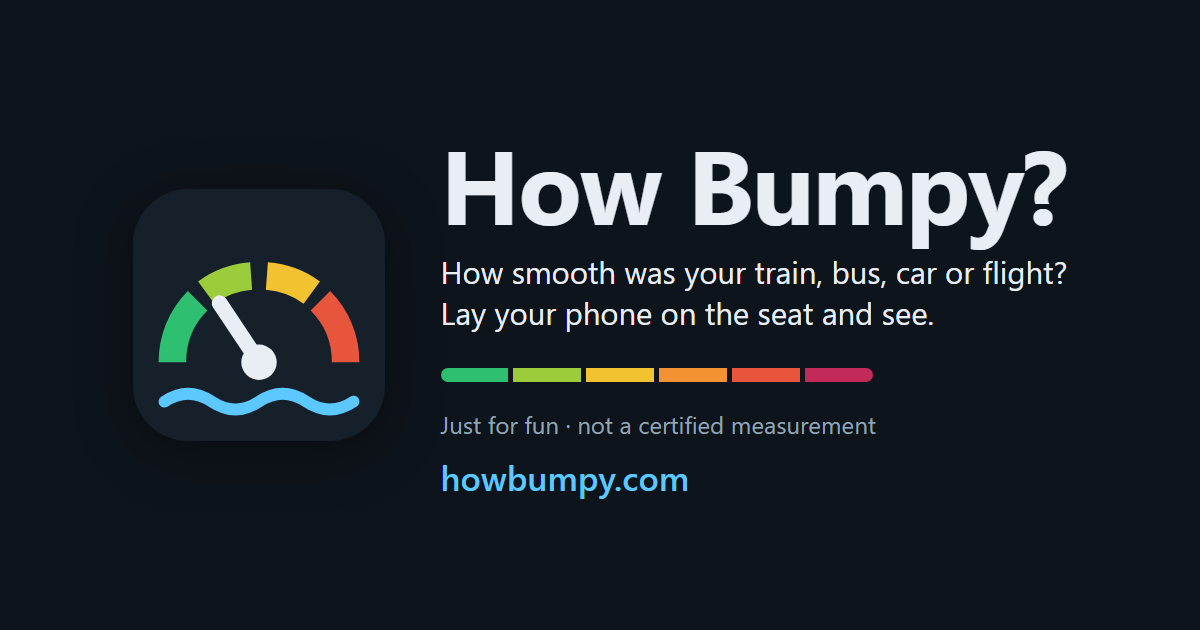
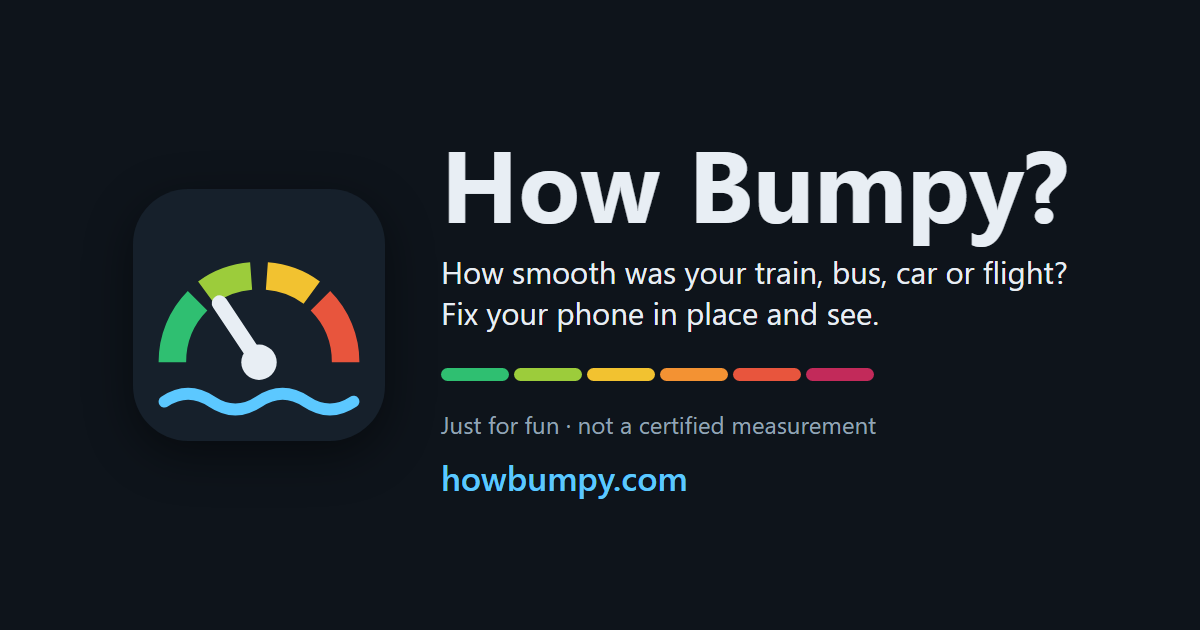
Say "fix your phone in place", never "lay it on the seat"
A phone left loose on a seat is a safety and theft risk, and it can
slide off and break. Every mention now says to fix the phone in place,
with examples: a phone holder or mount (dashboard, air vent, armrest,
tray table) or a seat-back pocket.

- Setup steps, countdown, moving-phone status and error text
- Where to put the phone: the phone feels what it's fixed to, so compare
  rides in the same holder or spot; drivers start it before setting off
- Plane FAQ: crew instructions for take-off and landing (JSON-LD to match)
- Meta, OG, Twitter and WebApplication descriptions, tagline, manifest,
  llms.txt, README
- og-image.png re-rendered: "Fix your phone in place and see."
- sw.js -> hb-v3; sitemap lastmod 2026-10-27

diff --git a/index.html b/index.html
@@ -4,13 +4,13 @@
 <meta charset="utf-8">
 <meta name="viewport" content="width=device-width, initial-scale=1, viewport-fit=cover">
 <title>How Bumpy? Ride comfort meter for trains, buses, cars and flights</title>
-<meta name="description" content="How bumpy was your train, bus, car or flight? Lay your phone on the seat for a live comfort gauge, the biggest jolts and a seasickness dose. Free and just for fun.">
+<meta name="description" content="How bumpy was your train, bus, car or flight? Fix your phone in a holder for a live comfort gauge, the biggest jolts and a seasickness dose. Free and just for fun.">
 <link rel="canonical" href="https://howbumpy.com/">
 <meta property="og:type" content="website">
 <meta property="og:url" content="https://howbumpy.com/">
 <meta property="og:site_name" content="How Bumpy?">
 <meta property="og:title" content="How Bumpy? How smooth was your ride?">
-<meta property="og:description" content="Lay your phone on the seat of a train, bus, car or plane and find out how bumpy the ride was. Free, just for fun, and it works offline.">
+<meta property="og:description" content="Fix your phone in a holder on a train, bus, car or plane and find out how bumpy the ride was. Free, just for fun, and it works offline.">
 <meta property="og:image" content="https://howbumpy.com/og-image.png">
 <meta property="og:image:width" content="1200">
 <meta property="og:image:height" content="630">
@@ -18,7 +18,7 @@
 <meta property="og:locale" content="en_GB">
 <meta name="twitter:card" content="summary_large_image">
 <meta name="twitter:title" content="How Bumpy? How smooth was your ride?">
-<meta name="twitter:description" content="Lay your phone on the seat of a train, bus, car or plane and find out how bumpy the ride was. Free, just for fun, and it works offline.">
+<meta name="twitter:description" content="Fix your phone in a holder on a train, bus, car or plane and find out how bumpy the ride was. Free, just for fun, and it works offline.">
 <meta name="twitter:image" content="https://howbumpy.com/og-image.png">
 <meta name="theme-color" content="#0e141b">
 <meta name="apple-mobile-web-app-title" content="How Bumpy?">
@@ -35,7 +35,7 @@
   "name": "How Bumpy?",
   "alternateName": "How Bumpy ride comfort meter",
   "url": "https://howbumpy.com/",
-  "description": "Lay your phone on the seat of a train, tram, bus, car, plane or boat, or clip it to a bike's handlebars, for a just-for-fun estimate of how comfortable the ride was: a live gauge, a verdict, the biggest jolts and a seasickness dose. It uses the comfort weightings from ISO 2631-1:1997, but a phone isn't a calibrated instrument and this isn't a certified measurement.",
+  "description": "Fix your phone in place on a train, tram, bus, car, plane or boat (in a phone holder or mount, or a seat-back pocket), or clip it to a bike's handlebars, for a just-for-fun estimate of how comfortable the ride was: a live gauge, a verdict, the biggest jolts and a seasickness dose. It uses the comfort weightings from ISO 2631-1:1997, but a phone isn't a calibrated instrument and this isn't a certified measurement.",
   "applicationCategory": "UtilitiesApplication",
   "operatingSystem": "Any (needs a phone or tablet with a motion sensor)",
   "browserRequirements": "Requires JavaScript and a motion sensor",
@@ -52,9 +52,9 @@
   "@type": "FAQPage",
   "mainEntity": [
     { "@type": "Question", "name": "How do I find out how bumpy my ride was?",
-      "acceptedAnswer": { "@type": "Answer", "text": "Choose what you're riding and tap Start, then lay your phone flat on the seat within three seconds. Leave it still and tap Stop when you arrive. You get a verdict, a timeline of the ride, the biggest jolts and a seasickness dose." } },
+      "acceptedAnswer": { "@type": "Answer", "text": "Choose what you're riding and tap Start, then fix your phone in place within three seconds, for example in a phone holder or a seat-back pocket. Leave it there and tap Stop when you arrive. You get a verdict, a timeline of the ride, the biggest jolts and a seasickness dose." } },
     { "@type": "Question", "name": "Can I use it on a plane to see how bumpy the flight was?",
-      "acceptedAnswer": { "@type": "Answer", "text": "Yes. Lay the phone flat on the seat (an empty one beside you is ideal) and tap Start. Once the page is open it keeps working in flight mode. Turbulence shows up as up-and-down and sideways shaking, the same as a rough road. It's just for fun: it can't tell you anything about how safe a flight is." } },
+      "acceptedAnswer": { "@type": "Answer", "text": "Yes. Tap Start and fix the phone in place, for example in the seat-back pocket or a holder on the tray table, following the crew's instructions for phones during take-off and landing. Once the page is open it keeps working in flight mode. Turbulence shows up as up-and-down and sideways shaking, the same as a rough road. It's just for fun: it can't tell you anything about how safe a flight is." } },
     { "@type": "Question", "name": "Is it accurate?",
       "acceptedAnswer": { "@type": "Answer", "text": "It's a fun estimate. It weights the shaking with the comfort weightings from ISO 2631-1:1997, but a phone isn't a calibrated instrument, phones differ, and it measures one spot. It's best for comparing your own rides, with the same phone in the same spot." } },
     { "@type": "Question", "name": "Can I use it on a bike?",
@@ -77,7 +77,7 @@
       <button type="button" id="infoBtn" class="pill round" aria-haspopup="dialog" aria-controls="about" aria-label="How it works" title="How it works"><svg viewBox="0 0 24 24" width="22" height="22" aria-hidden="true"><circle cx="12" cy="12" r="9.5" fill="none" stroke="currentColor" stroke-width="2"/><path d="M12 11v5.5M12 7.6v.1" fill="none" stroke="currentColor" stroke-width="2.4" stroke-linecap="round"/></svg></button>
     </div>
   </div>
-  <p class="tag">A ride comfort meter for trains, trams, buses, cars, bikes, planes and boats. Lay your phone on the seat and see.</p>
+  <p class="tag">A ride comfort meter for trains, trams, buses, cars, bikes, planes and boats. Fix your phone in place and see.</p>
   <p class="scope">Just for fun: it uses the comfort weightings from ISO 2631-1:1997, but a phone isn't a calibrated instrument and this isn't a certified measurement.</p>
 </header>
 
@@ -99,9 +99,9 @@
     </label>
     <!-- app.js swaps these three for handlebar wording when Bike is chosen (TIPS). -->
     <ol class="tips" id="tips">
-      <li>Sit down and lay the phone flat on the seat, in the same spot each time so your rides compare fairly.</li>
-      <li>Tap Start: you get 3 seconds to put it down.</li>
-      <li>Leave it still, and tap Stop when you arrive.</li>
+      <li>Fix the phone in place so it can't slide or fall: in a phone holder or mount, a clamp on an armrest or tray table, or a seat-back pocket. Use the same spot each time so your rides compare fairly.</li>
+      <li>Tap Start: you get 3 seconds to settle it and take your hand away.</li>
+      <li>Leave it there, and tap Stop when you arrive.</li>
     </ol>
     <!-- .bar: the view's main action. On phones it is pinned to the bottom of the screen. -->
     <div class="bar"><button type="button" id="startBtn" class="big go">Start measuring</button></div>
@@ -111,7 +111,7 @@
 
   <section id="rec" class="card rec" hidden>
     <div id="countdown" class="countdown" hidden>
-      <p id="cdText">Put the phone down</p>
+      <p id="cdText">Fix the phone in place</p>
       <span id="countNum">3</span>
     </div>
     <div class="gauge">
@@ -207,7 +207,7 @@
     </table>
     <p>The ranges overlap on purpose, because people differ. Where two overlap, this page switches label halfway through the overlap. Comfort is about much more than vibration (noise, temperature, the seat, how you sit), and none of that is measured here.</p>
     <h3>Where to put the phone</h3>
-    <p>Lay it flat on the seat, ideally in the same spot every time. Any way up is fine: the page works out which way is down. On your lap or in your hand, your body softens the shaking; standing, it measures the floor; either way the numbers aren't comparable with a phone on the seat. On a bike, clip it firmly into a handlebar mount: it then feels the handlebars rather than the saddle, so compare bike rides with each other, and quick leans into corners may be left out like a pick-up. Picking the phone up spoils the reading, so those seconds are left out automatically, as is any time without readings, plus a couple of seconds after each break while the calculation settles.</p>
+    <p>Fix it in place so it can't slide or fall: in a phone holder or mount (on the dashboard, an air vent, an armrest or a tray table), or a snug seat-back pocket. Any way up is fine: the page works out which way is down. It feels whatever it's fixed to, and a holder adds a little give of its own, so a dashboard holder and a seat-back pocket give different numbers for the same ride: compare rides with the same phone in the same holder or spot. Loose on your lap or in your hand, your body softens the shaking, so those numbers don't compare either. If you're driving, start it before you set off and leave it alone. On a bike, clip it firmly into a handlebar mount: it then feels the handlebars rather than the saddle, so compare bike rides with each other, and quick leans into corners may be left out like a pick-up. Picking the phone up spoils the reading, so those seconds are left out automatically, as is any time without readings, plus a couple of seconds after each break while the calculation settles.</p>
     <p>Measuring stops by itself after two hours, or if the readings stop for five minutes.</p>
     <h3>Seasickness</h3>
     <p>ISO 2631-1 also gives a motion-sickness dose for slow up-and-down swaying, the kind boats make, and a rough rule for how many people that much motion would make vomit. It builds up over time, so it means most on rides of 20 minutes or more. Car sickness comes mostly from braking and cornering, which this dose doesn't count.</p>
@@ -219,9 +219,9 @@
     <!-- Keep these word for word the same as the FAQPage JSON-LD in <head> (page-test.js checks). -->
     <div class="faq">
       <h4>How do I find out how bumpy my ride was?</h4>
-      <p>Choose what you're riding and tap Start, then lay your phone flat on the seat within three seconds. Leave it still and tap Stop when you arrive. You get a verdict, a timeline of the ride, the biggest jolts and a seasickness dose.</p>
+      <p>Choose what you're riding and tap Start, then fix your phone in place within three seconds, for example in a phone holder or a seat-back pocket. Leave it there and tap Stop when you arrive. You get a verdict, a timeline of the ride, the biggest jolts and a seasickness dose.</p>
       <h4>Can I use it on a plane to see how bumpy the flight was?</h4>
-      <p>Yes. Lay the phone flat on the seat (an empty one beside you is ideal) and tap Start. Once the page is open it keeps working in flight mode. Turbulence shows up as up-and-down and sideways shaking, the same as a rough road. It's just for fun: it can't tell you anything about how safe a flight is.</p>
+      <p>Yes. Tap Start and fix the phone in place, for example in the seat-back pocket or a holder on the tray table, following the crew's instructions for phones during take-off and landing. Once the page is open it keeps working in flight mode. Turbulence shows up as up-and-down and sideways shaking, the same as a rough road. It's just for fun: it can't tell you anything about how safe a flight is.</p>
       <h4>Is it accurate?</h4>
       <p>It's a fun estimate. It weights the shaking with the comfort weightings from ISO 2631-1:1997, but a phone isn't a calibrated instrument, phones differ, and it measures one spot. It's best for comparing your own rides, with the same phone in the same spot.</p>
       <h4>Can I use it on a bike?</h4>

diff --git a/app.js b/app.js
@@ -89,15 +89,15 @@ function dragSheet(e) {
 }
 
 // ---------- mode picker ----------
-// Setup steps and countdown wording: on the seat for every vehicle except a bike, which needs a handlebar mount.
+// Setup steps and countdown wording: fixed in a holder or pocket for every vehicle except a bike, which needs a handlebar mount.
 const TIPS = {
-  seat: ['Sit down and lay the phone flat on the seat, in the same spot each time so your rides compare fairly.', 'Tap Start: you get 3 seconds to put it down.', 'Leave it still, and tap Stop when you arrive.', 'Put the phone down'],
+  fixed: ["Fix the phone in place so it can't slide or fall: in a phone holder or mount, a clamp on an armrest or tray table, or a seat-back pocket. Use the same spot each time so your rides compare fairly.", 'Tap Start: you get 3 seconds to settle it and take your hand away.', 'Leave it there, and tap Stop when you arrive.', 'Fix the phone in place'],
   bike: ['Clip the phone firmly into a handlebar mount. It feels the bars rather than the saddle, so compare bike rides with each other.', 'Tap Start: you get 3 seconds to clip it in.', 'Ride, and tap Stop when you finish. Quick leans into corners may be left out, like picking the phone up.', 'Clip the phone in'],
 };
 function setMode(m) {
   S.mode = MODES[m] ? m : 'train';
   for (const b of $('modes').querySelectorAll('button')) b.setAttribute('aria-checked', String(b.dataset.mode === S.mode));
-  const t = TIPS[S.mode === 'bike' ? 'bike' : 'seat'];
+  const t = TIPS[S.mode === 'bike' ? 'bike' : 'fixed'];
   $('tips').querySelectorAll('li').forEach((li, i) => { li.textContent = t[i]; });
   $('cdText').textContent = t[3];
   store(PREFS_KEY, { ...load(PREFS_KEY, {}), mode: S.mode });
@@ -302,7 +302,7 @@ function liveTick() {
   if (L.jolt > 0.3) $('joltNow').textContent = `${fmt(L.jolt / G)} g`;
   drawChart($('liveChart'), L.values, { offset: Math.max(0, elapsed - L.values.length) });
   let status = '';
-  if (r.handledNow) status = 'Phone moving: hold it still. These seconds are left out.';
+  if (r.handledNow) status = 'Phone moving: these seconds are left out.';
   else if (quiet > 1500) status = 'No motion readings right now. Keep this page open with the screen on.';
   else if (r.fs < 20) status = `This phone only reports motion ${r.fs} times a second: faster shaking isn't measured and may show up as slower shaking.`;
   $('recStatus').textContent = status;
@@ -318,7 +318,7 @@ function stop(reason) {
     const m = $('sensorMsg');
     m.textContent = r && r.error ? `${r.error} If it keeps happening, this phone's motion readings may not be usable here.`
       : reason === 'quiet' ? 'Measuring stopped on its own: no motion readings came through for five minutes (the screen may have gone off, or the page into the background), and there wasn\'t enough before that to measure.'
-      : r && r.excludedHandled > r.duration ? 'The phone was moving most of the time, so there wasn\'t enough to measure. Lay it down and leave it still.'
+      : r && r.excludedHandled > r.duration ? 'The phone was moving most of the time, so there wasn\'t enough to measure. Fix it in place, in a holder or pocket, and leave it there.'
       : `That was too short to measure. Leave it running for at least ${MIN_SECONDS + TRIM_START + TRIM_END + SETTLE.comfort} seconds.`;
     m.hidden = false;
     m.scrollIntoView({ block: 'nearest' });

diff --git a/sw.js b/sw.js
@@ -8,7 +8,7 @@
 //  - Images/icons: CACHE-FIRST.
 //  - Bump CACHE on deploys that change any precached file (activate deletes
 //    every other cache version).
-const CACHE = 'hb-v2';
+const CACHE = 'hb-v3';
 const CORE = [
 	'/',
 	'/index.html',

diff --git a/README.md b/README.md
@@ -2,8 +2,8 @@
 
 **Live: <https://howbumpy.com/>**
 
-How bumpy was your train, tram, bus, car, bike, plane or boat? Lay your phone flat on the seat (or
-clip it to the handlebars), tap Start, and find out. A free, **just-for-fun** ride comfort meter
+How bumpy was your train, tram, bus, car, bike, plane or boat? Fix your phone in place (in a phone
+holder or mount, a seat-back pocket, or clipped to the handlebars), tap Start, and find out. A free, **just-for-fun** ride comfort meter
 that runs entirely in the browser.
 
 > It uses the comfort weightings from ISO 2631-1:1997, but a phone isn't a calibrated instrument
